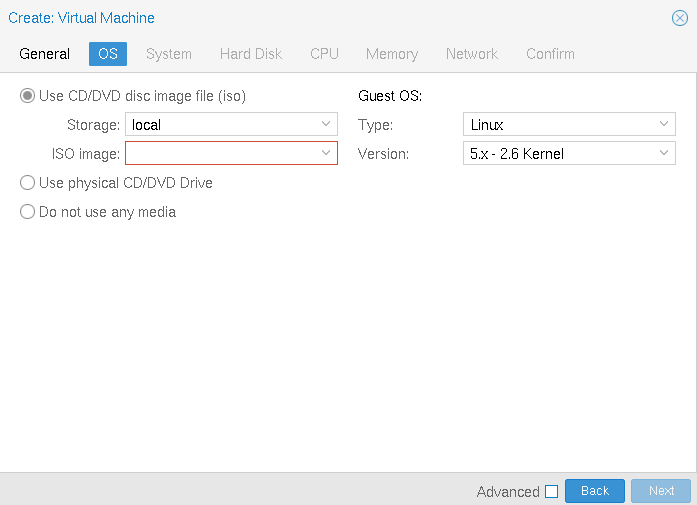
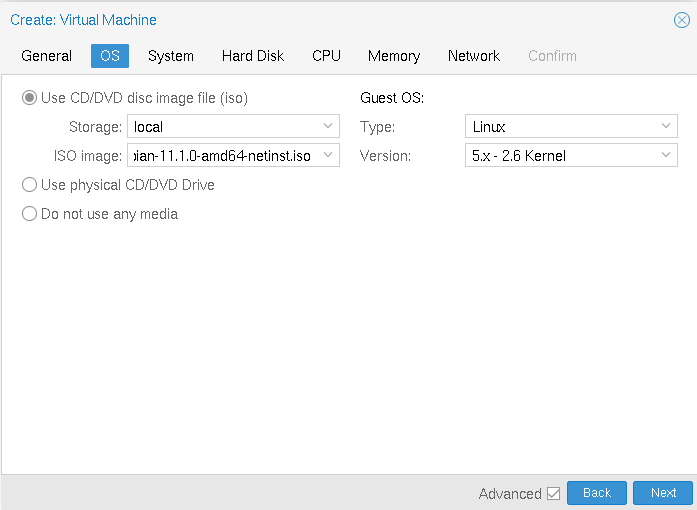
Crear MV

diff --git a/modulo3/creacion_linux.md b/modulo3/creacion_linux.md
@@ -8,11 +8,54 @@ Elegimos la opción de crear una máquina virtual:
 
 Y seguimos los siguientes pasos:
 
-### General
+### Identificar la máquina virtual
 
 Indicamos el nodo donde se va a crear la máquina, su ID y su nombre.
 
 ![crearVM](img/create_vm_2.png)
 
-### SO
+### Elegimos el sistema operativo
 
+Elegimos la ISO que vamos a utilizar para realizar la instalación. La ISO la escogeremos del medio de almacenamiento *local*. También seleccionamos el tipo de sistema operativo y la versión.
+
+![crearVM](img/create_vm_3.png)
+
+### Configuración del sistema
+
+Elegimos la tarjeta gráfica y el controlador SCSI, dejamos los valores por defecto.
+
+![crearVM](img/create_vm_4.png)
+
+### Selección del disco
+
+En este apartado seleccionamos la configuración del disco raíz de la máquina que vamos a crear. Los valores de BUS/Device y Cache la dejamos por defecto. Por ahora sólo podemos escoger un medio de almacenamiento para almacenar el disco: *local-pve*, es decir. el disco d la máquina se guardará en un volumen lógico. También indicaremos el tamaño del disco.
+
+![crearVM](img/create_vm_5.png)
+
+### Selección de la CPU
+
+Un zócalo (Socket) de CPU es una ranura física en la placa base de una PC donde puede conectar una CPU. Esta CPU puede contener uno o varios núcleos (Cores), que son unidades de procesamiento independientes. Podemos elegir el número de Sockets y Cores de la CPU de nuestra máquina. Además podemos emular distintos tipos de CPU, por el momento elegimos la opción por defecto.
+
+![crearVM](img/create_vm_6.png)
+
+### Configuración de la memoria
+
+Indicamos la cantidad de memoria que tendrá nuestra máquina virtual.
+
+![crearVM](img/create_vm_7.png)
+
+### Configuración de red
+
+En un principio nuestra máquina estará conectada al bridge externo `vmbr0` por lo que tomará una dirección IP del servidor DHCP de tu red local. No configuramos VLAN. El modelo de la tarjeta y la dirección MAC lo dejamos con las opciones predeterminada.
+
+![crearVM](img/create_vm_8.png)
+
+### Comienza la instalación
+
+Se ha creado la máquina  virtual, la iniciamos:
+
+![crearVM](img/create_vm_9.png)
+
+Y desde la *Consola* podemos ver el monito de la máquina para comenzar con la instalación:
+
+![crearVM](img/create_vm_10.png)
